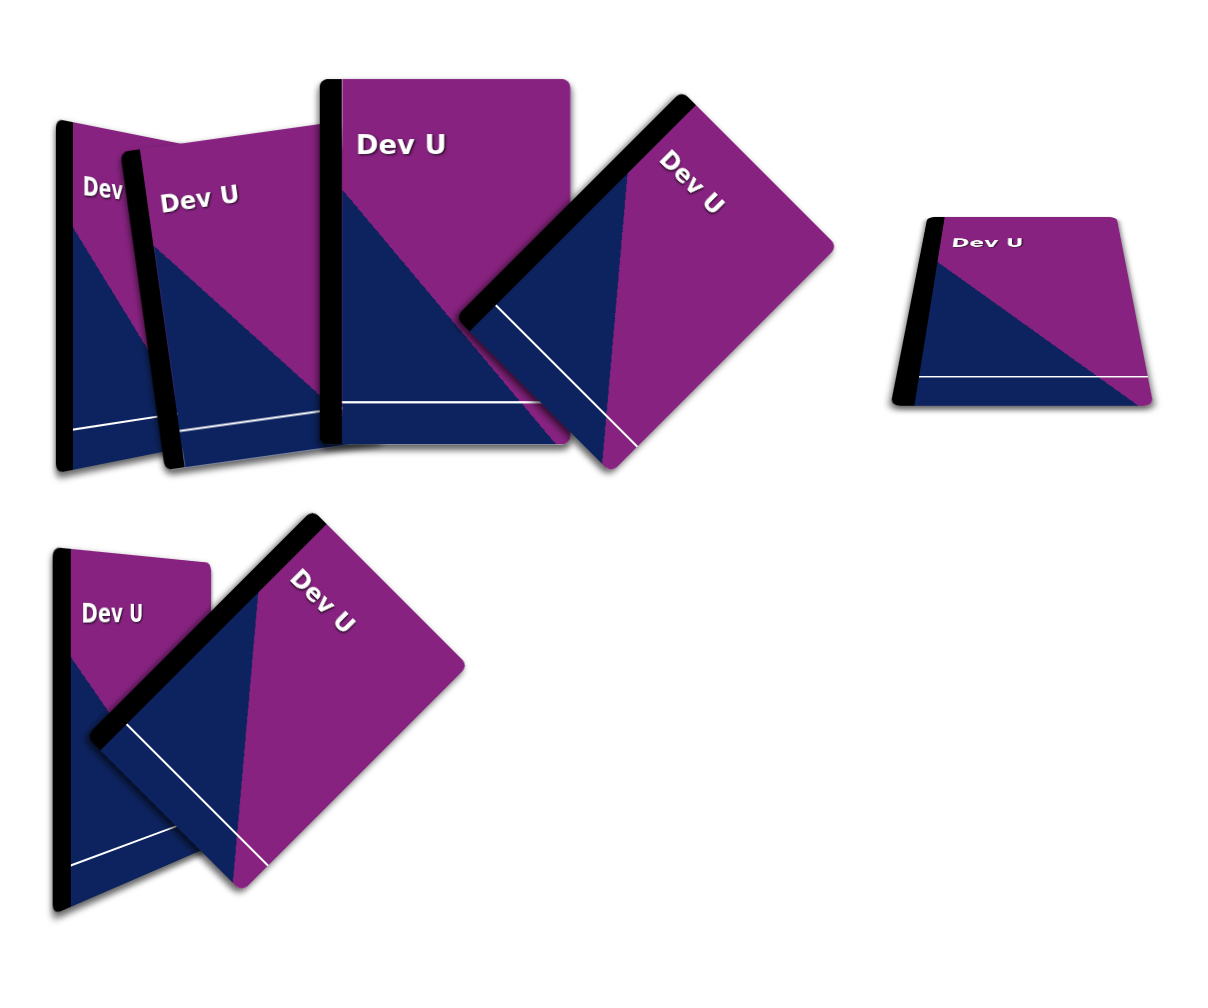
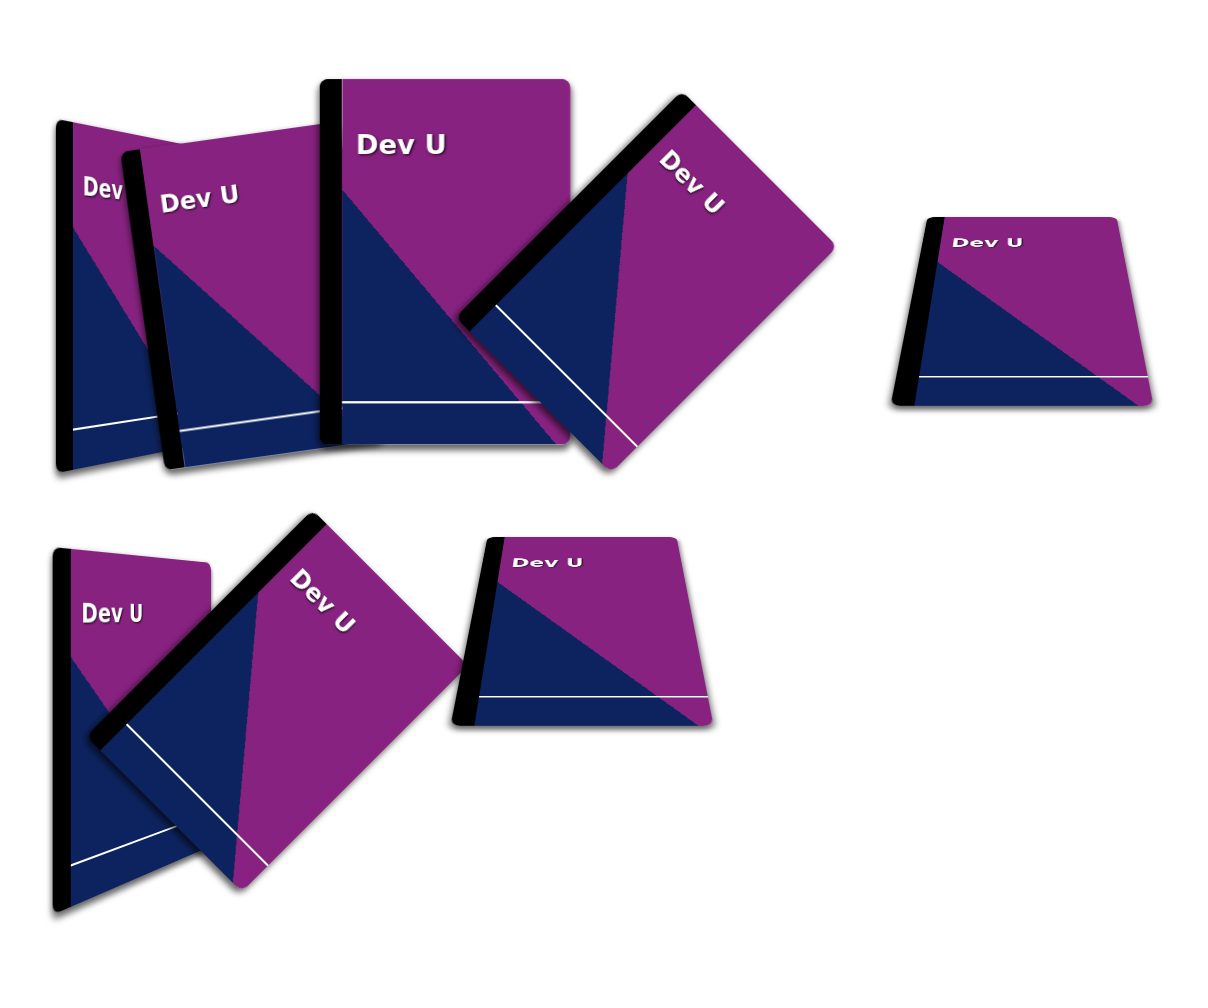
add husky precommit hook to generate screenshots

Changed region(s): [[0.3675, 0.5228, 0.6126, 0.7381]]

diff --git a/scripts/screenshot.js b/scripts/screenshot.js
@@ -3,6 +3,16 @@ const fs = require("fs");
 const path = require("path");
 
 (async () => {
+
+  const args = process.argv.slice(2);
+  const htmlFile = args[0];
+  const screengrabFile = args[1];
+
+  if (!htmlFile ||!screengrabFile) {
+    console.error("Usage: node index.js <html_file> <screengrab_file>");
+    process.exit(1);
+  }
+
   const browser = await puppeteer.launch();
   const page = await browser.newPage();
   await page.setViewport({
@@ -10,11 +20,11 @@ const path = require("path");
     height: 1000,
     deviceScaleFactor: 1,
   });
-  const filePath = "file://" + path.resolve(__dirname, "../transformations/index.html");
+  const filePath = "file://" + path.resolve(htmlFile);
   await page.goto(filePath, { waitUntil: "networkidle2" });
 
-  await page.screenshot({ path: "transformations/screengrab.png", fullPage: true });
-  console.log(filePath);
+  await page.screenshot({ path: screengrabFile, fullPage: true });
+  console.log(`\u2705 Screenshot saved: ${screengrabFile}`);
 
   await browser.close();
 })();

diff --git a/transformations/index.html b/transformations/index.html
@@ -31,7 +31,12 @@
       <div class="box t6">
         <h2>Dev U</h2>
         <div class="line"></div>
-      </div><div class="box t7">
+      </div>
+      <div class="box t7">
+        <h2>Dev U</h2>
+        <div class="line"></div>
+      </div>
+      <div class="box t5">
         <h2>Dev U</h2>
         <div class="line"></div>
       </div>
